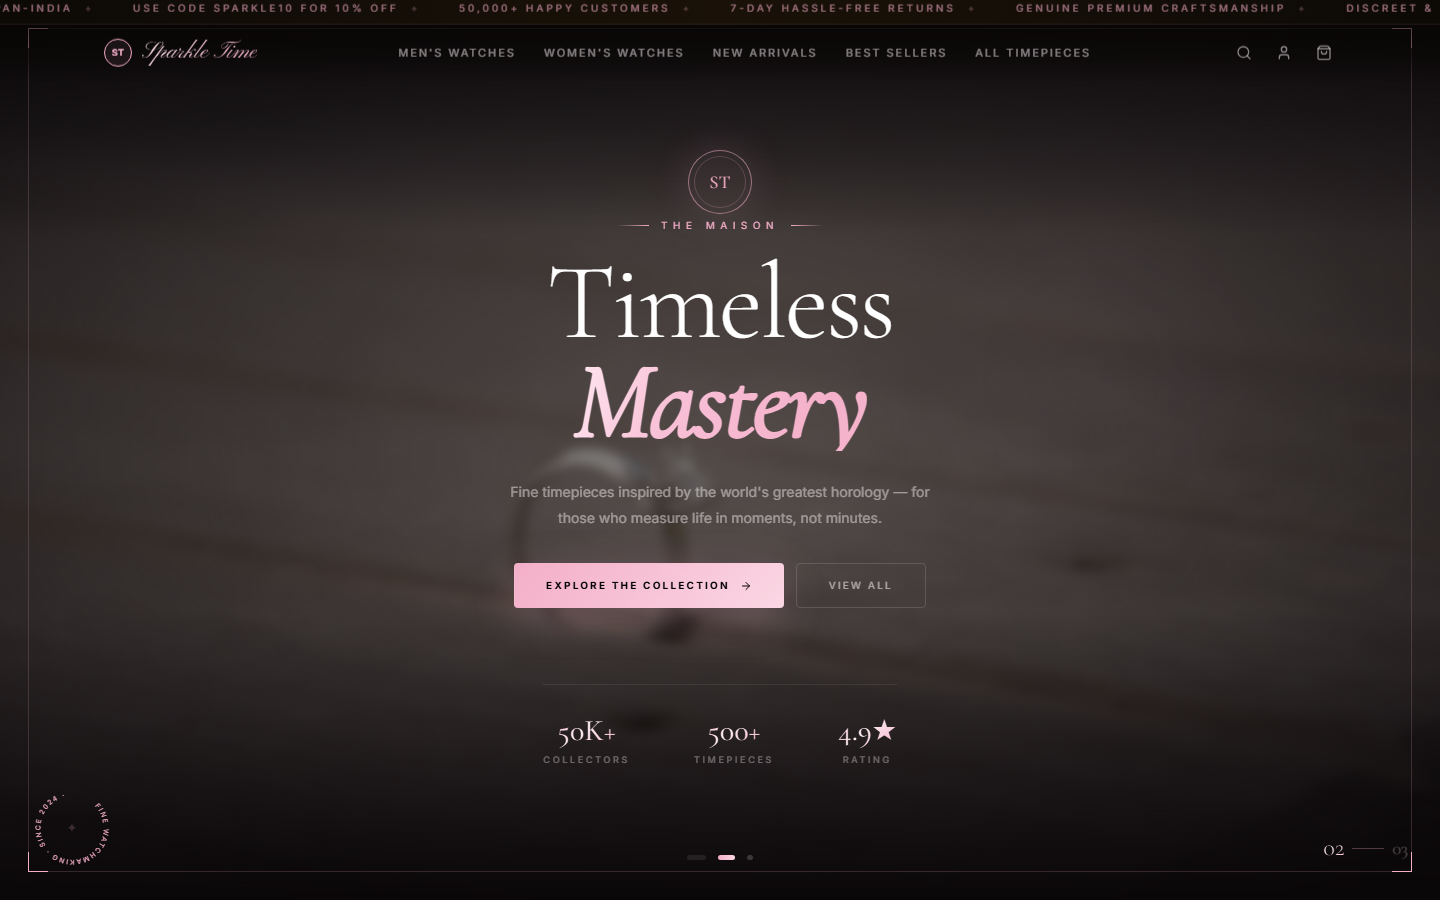
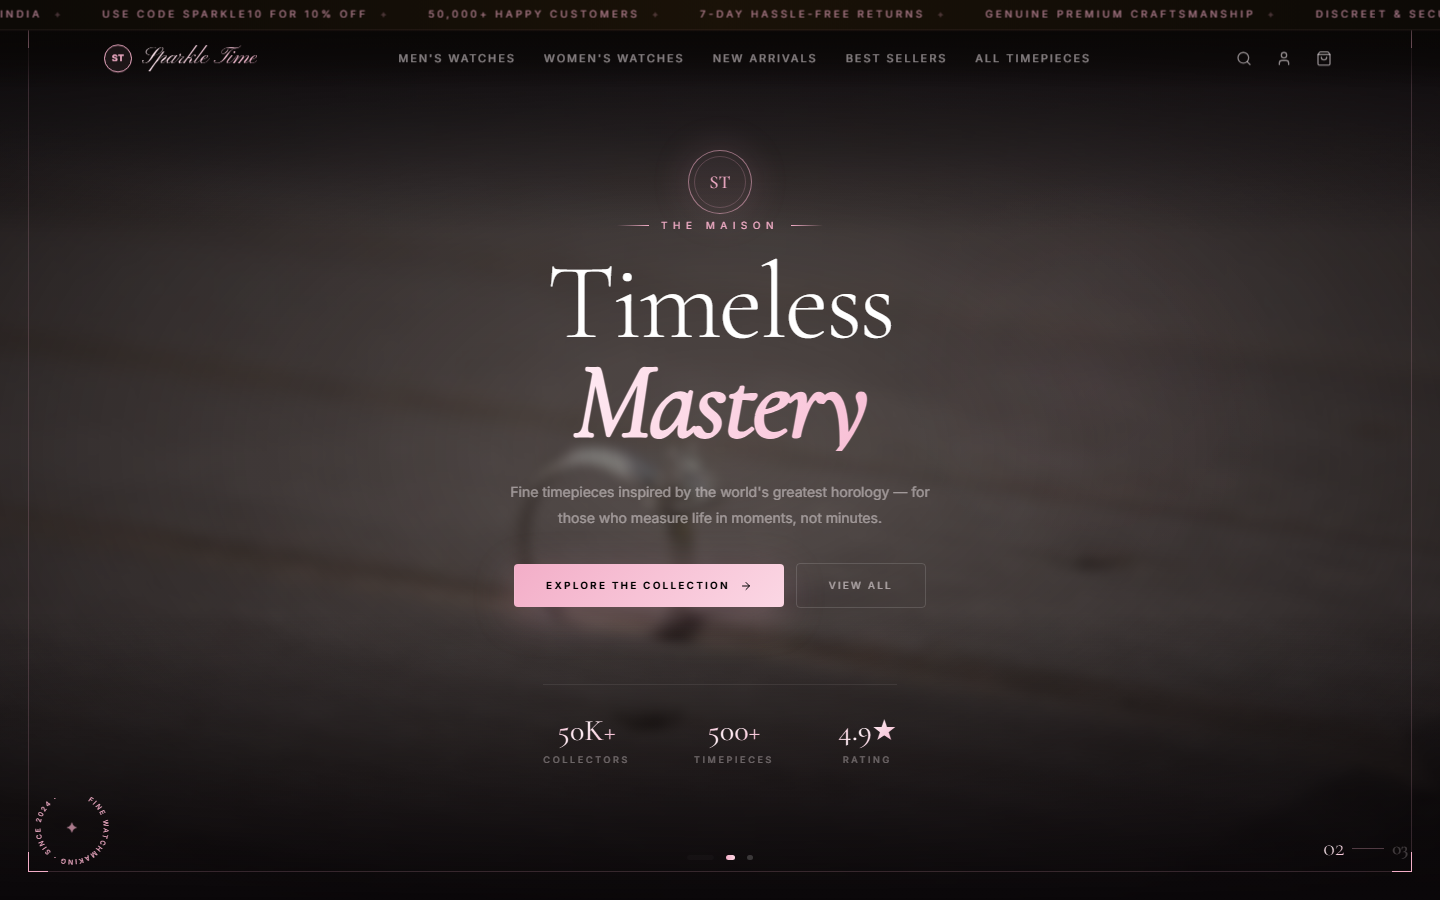
.

diff --git a/client/src/pages/Home.jsx b/client/src/pages/Home.jsx
@@ -253,7 +253,7 @@ export default function Home() {
             <motion.div key={activeHero}
               initial={{ opacity: 0, y: 30 }} animate={{ opacity: 1, y: 0 }} exit={{ opacity: 0, y: -20 }}
               transition={{ duration: 0.65 }}
-              className="max-w-3xl mx-auto flex flex-col items-center"
+              className="w-full max-w-3xl mx-auto flex flex-col"
             >
               {/* Eyebrow */}
               <motion.div className="flex items-center justify-center gap-3 mb-5" initial={{ opacity: 0 }} animate={{ opacity: 1 }} transition={{ delay: 0.3 }}>
@@ -287,22 +287,22 @@ export default function Home() {
               </div>
 
               <motion.p initial={{ opacity: 0, y: 15 }} animate={{ opacity: 1, y: 0 }} transition={{ delay: 0.6 }}
-                className="text-sm leading-relaxed mb-8 max-w-md mx-auto"
-                style={{ color: 'rgb(var(--ink-rgb)/0.5)', lineHeight: 1.85 }}>
+                className="text-sm leading-relaxed mb-8 mx-auto"
+                style={{ color: 'rgb(var(--ink-rgb)/0.5)', lineHeight: 1.85, width: '100%', maxWidth: 'min(28rem, 84vw)' }}>
                 {HERO_SLIDES[activeHero].desc}
               </motion.p>
 
               <motion.div initial={{ opacity: 0, y: 15 }} animate={{ opacity: 1, y: 0 }} transition={{ delay: 0.75 }}
-                className="flex flex-wrap gap-3 justify-center">
+                className="flex flex-col sm:flex-row gap-3 justify-center items-center w-full max-w-sm sm:max-w-none mx-auto">
                 <Link to={HERO_SLIDES[activeHero].cta}
-                  className="group relative overflow-hidden flex items-center gap-2.5 px-8 py-3.5 text-black text-[10px] font-bold tracking-[0.22em] uppercase rounded-sm"
+                  className="group relative overflow-hidden flex items-center justify-center gap-2.5 w-full sm:w-auto px-8 py-3.5 text-black text-[10px] font-bold tracking-[0.22em] uppercase rounded-sm"
                   style={{ background: 'linear-gradient(135deg, var(--accent), var(--accent-2))', boxShadow: '0 10px 40px rgb(var(--accent-rgb)/0.25)' }}>
                   <motion.div className="absolute inset-0 bg-white/30" initial={{ x: '-100%' }} whileHover={{ x: '100%' }} transition={{ duration: 0.55 }} />
                   <span className="relative">{HERO_SLIDES[activeHero].ctaLabel}</span>
                   <ArrowRight size={12} className="relative group-hover:translate-x-1.5 transition-transform duration-300" />
                 </Link>
                 <Link to="/shop"
-                  className="flex items-center gap-2.5 px-8 py-3.5 text-[10px] tracking-[0.22em] uppercase transition-all duration-300 rounded-sm"
+                  className="flex items-center justify-center gap-2.5 w-full sm:w-auto px-8 py-3.5 text-[10px] tracking-[0.22em] uppercase transition-all duration-300 rounded-sm"
                   style={{ border: '1px solid rgba(255,255,255,0.14)', color: 'rgb(var(--ink-rgb)/0.6)' }}
                   onMouseEnter={e => { e.currentTarget.style.borderColor = 'rgb(var(--accent-rgb)/0.5)'; e.currentTarget.style.color = 'var(--accent)'; }}
                   onMouseLeave={e => { e.currentTarget.style.borderColor = 'rgba(255,255,255,0.14)'; e.currentTarget.style.color = 'rgb(var(--ink-rgb)/0.6)'; }}>
@@ -314,7 +314,7 @@ export default function Home() {
 
           {/* Stats */}
           <motion.div initial={{ opacity: 0 }} animate={{ opacity: 1 }} transition={{ delay: 1.1 }}
-            className="flex gap-10 sm:gap-16 mt-12 sm:mt-14 pt-7 justify-center flex-wrap"
+            className="flex gap-8 sm:gap-16 mt-12 sm:mt-14 pt-7 justify-center flex-wrap w-full"
             style={{ borderTop: '1px solid rgba(255,255,255,0.08)' }}>
             {HERO_STATS.map((s, i) => (
               <div key={s.label} className="text-center">

diff --git a/client/src/index.css b/client/src/index.css
@@ -61,6 +61,7 @@
 @layer base {
   * { box-sizing: border-box; margin: 0; padding: 0; }
   html { scroll-behavior: smooth; }
+  html, body { overflow-x: hidden; max-width: 100%; }
   body {
     background-color: var(--bg);
     color: var(--ink);